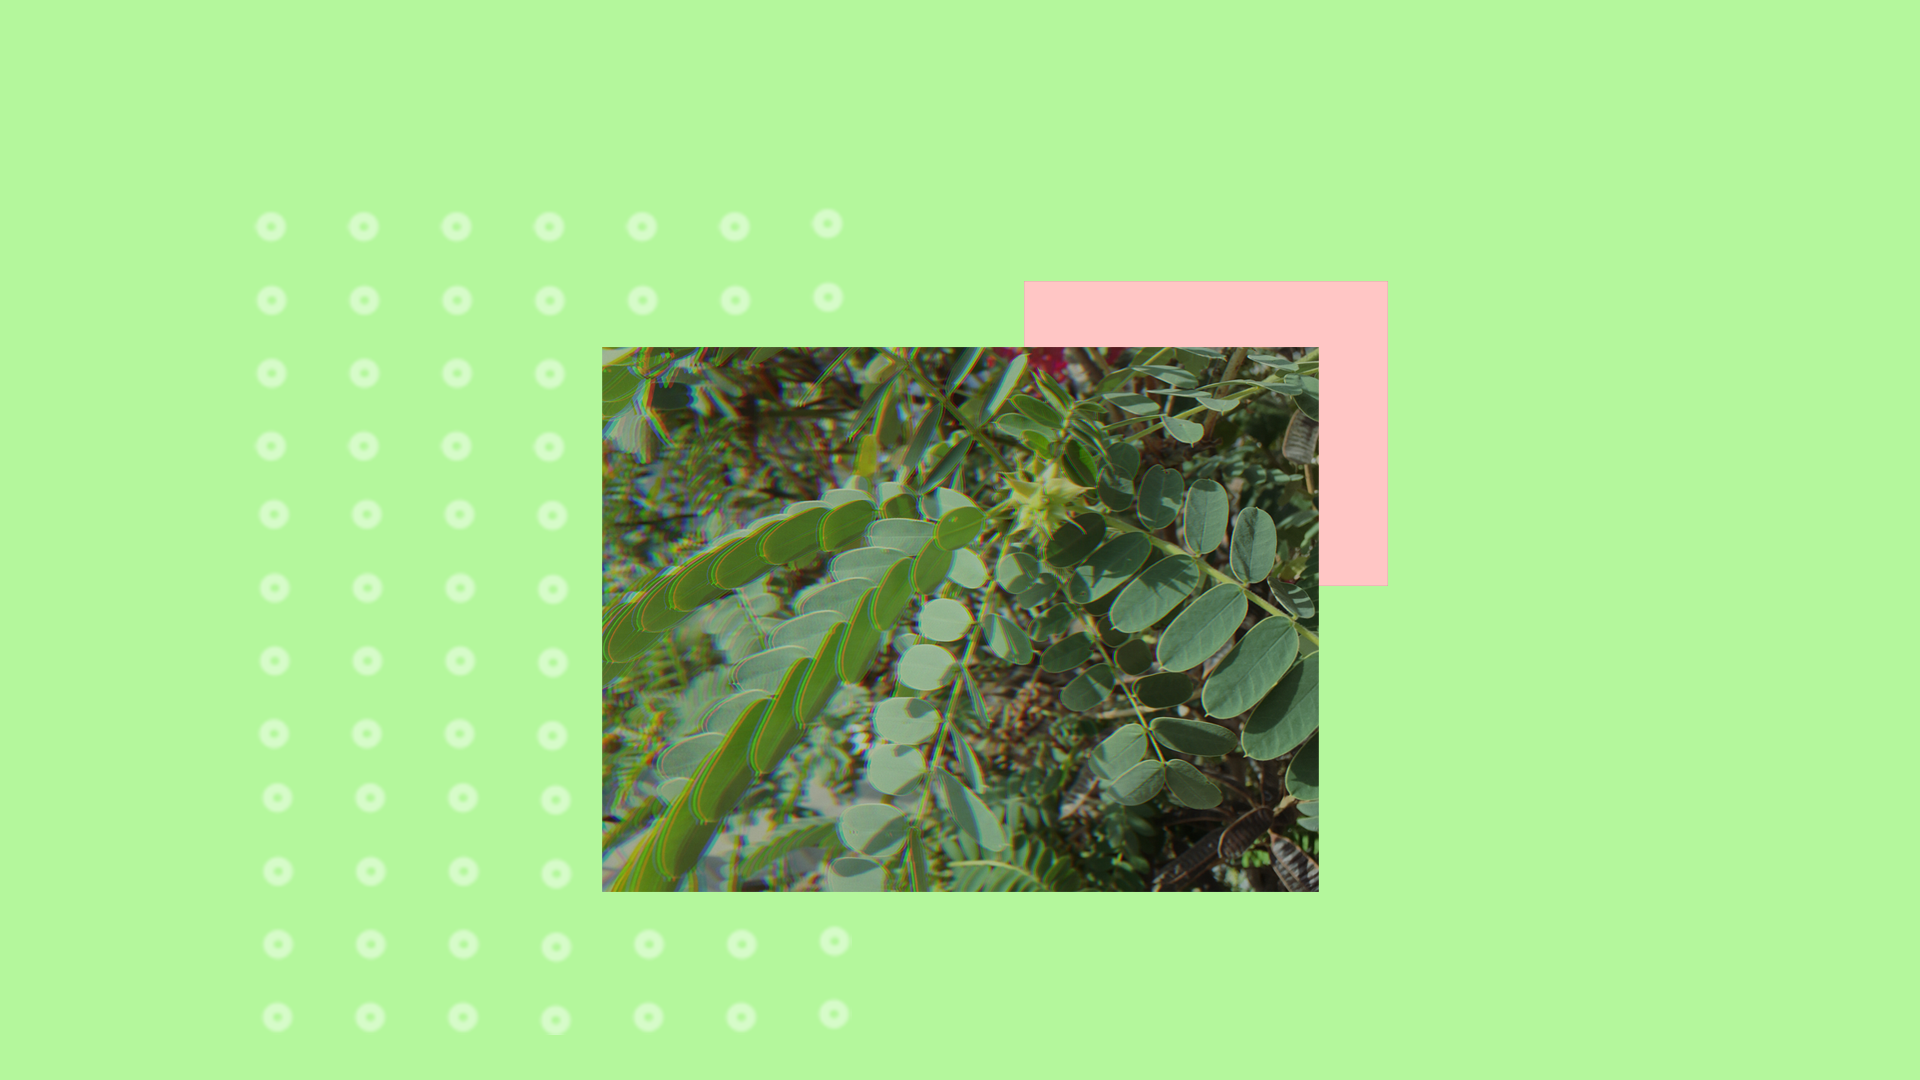
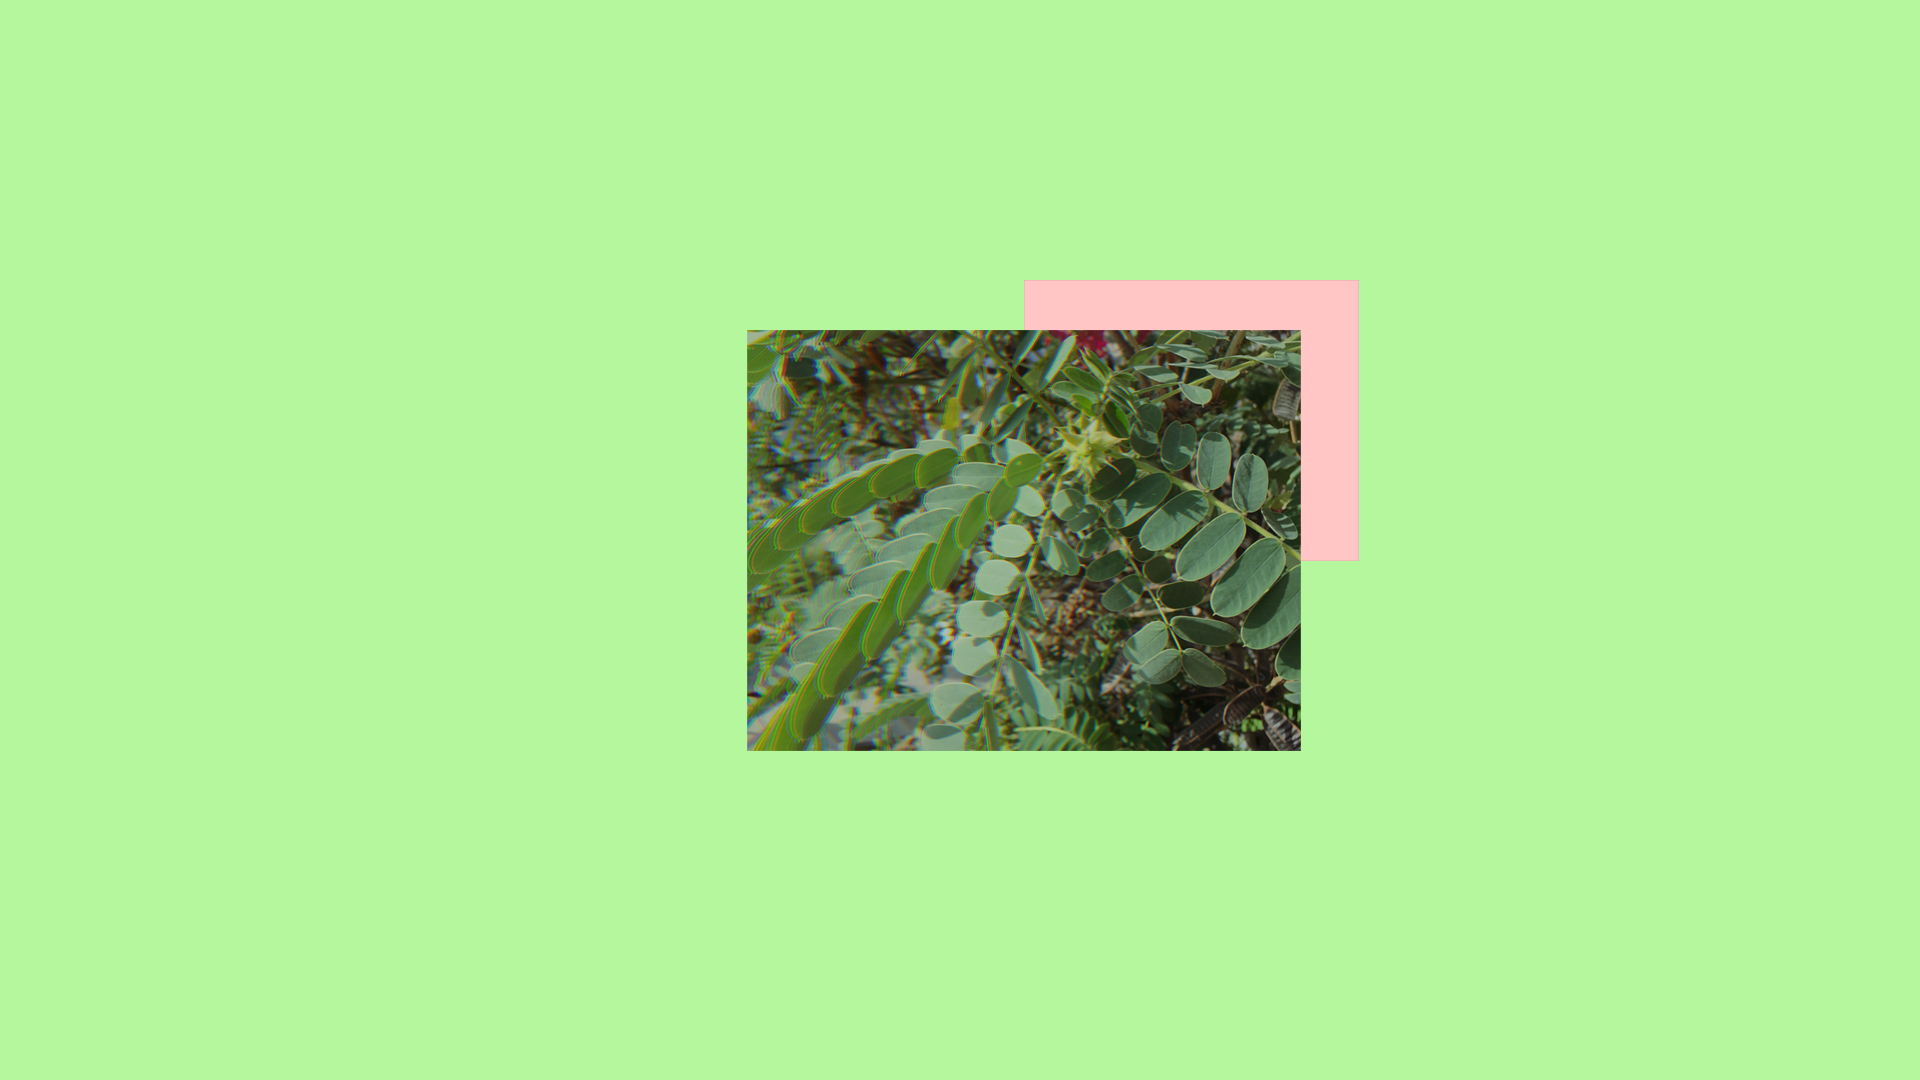
img

diff --git a/unit_3/css/ga.css b/unit_3/css/ga.css
@@ -1,7 +1,5 @@
 body {
  background-image: url('../../unit_3/images/plant2.png')
- background-position: center;
- background-size: cover;
 }
 h1{
   color: white;
